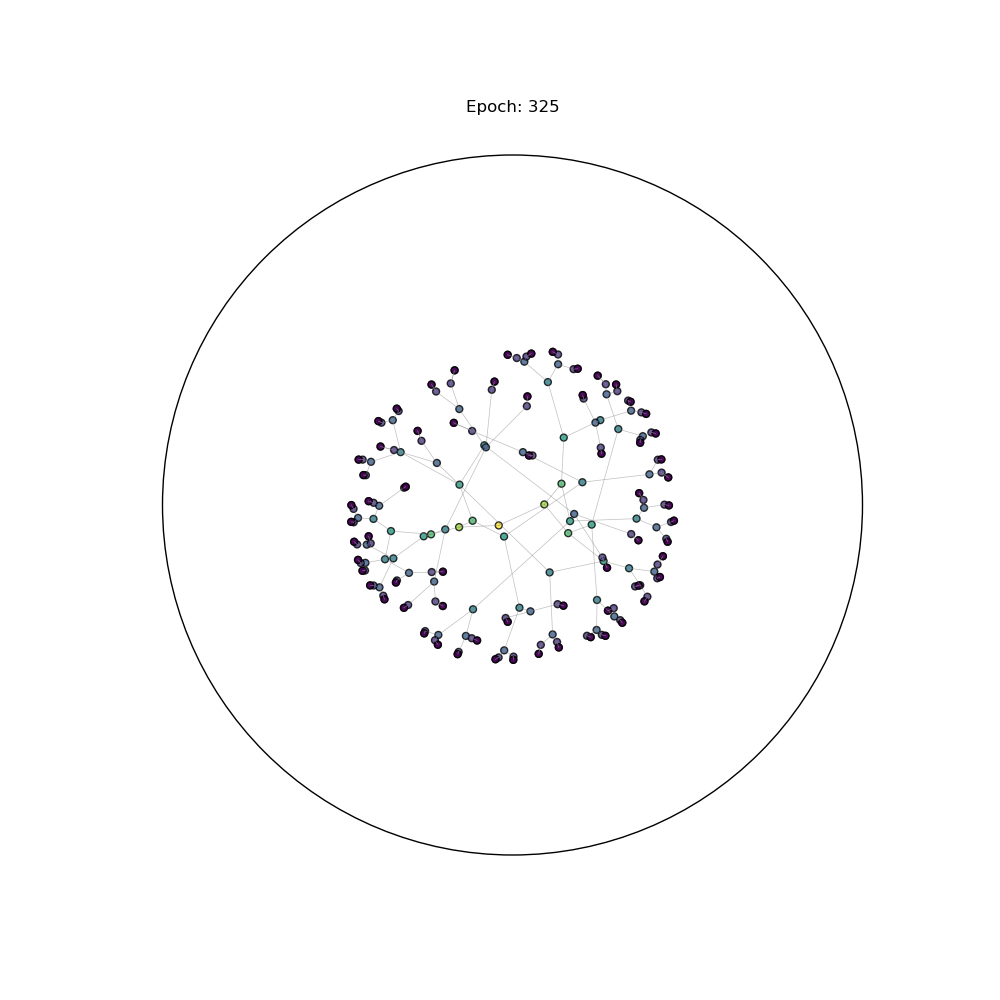
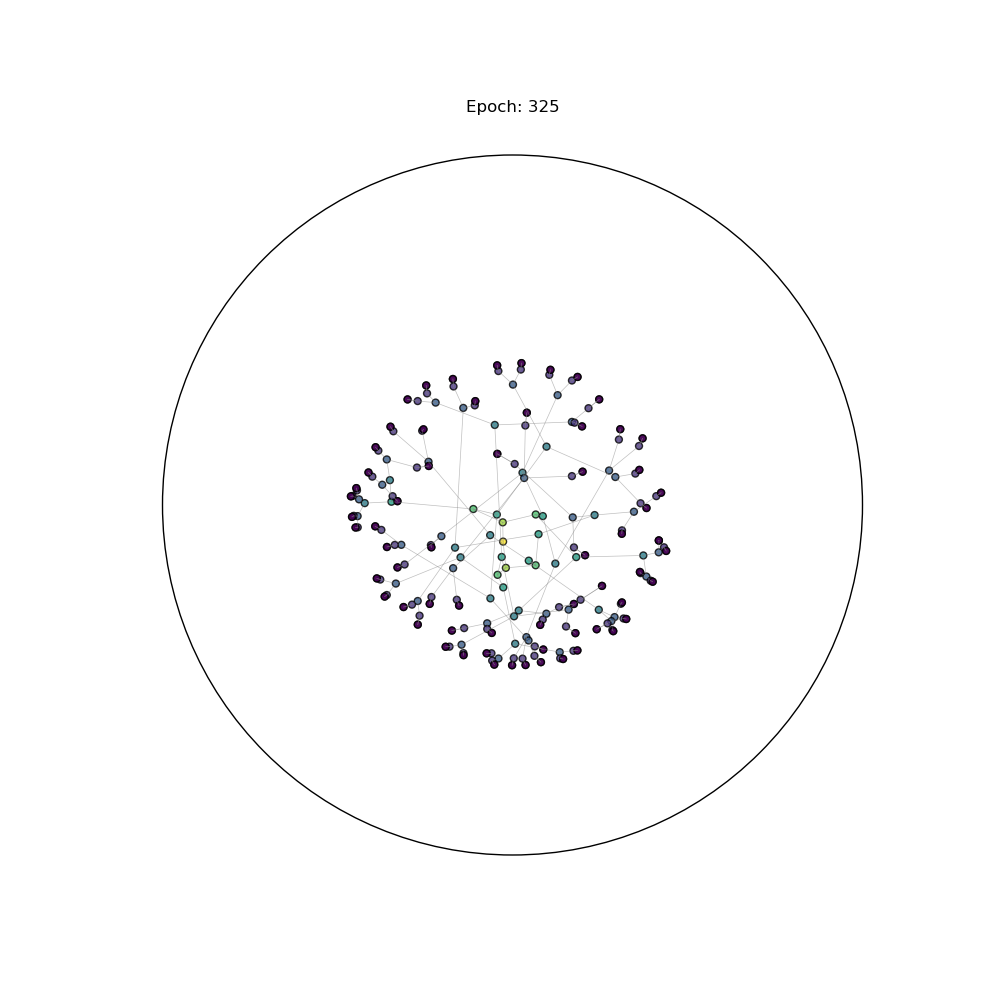
updated logic

Changed region(s): [[0.341, 0.341, 0.682, 0.682]]

diff --git a/minimal/train_hyper_synth.py b/minimal/train_hyper_synth.py
@@ -2,6 +2,8 @@ import time
 import numpy as np
 import os
 import torch
+from natsort import natsorted
+import imageio
 import torch.optim as optim
 import networkx as nx
 import torch.nn as nn
@@ -43,14 +45,14 @@ paths = nx.shortest_path_length(G,0)
 
 colors = [x[1] for x in paths.items()]
 
-init_c = nn.Parameter(torch.Tensor([1.0]), requires_grad=False)
+init_c = nn.Parameter(torch.Tensor([0.75]), requires_grad=False)
 hid_c = nn.Parameter(torch.Tensor([0.5]), requires_grad=False)
 out_c = nn.Parameter(torch.Tensor([0.25]), requires_grad=False)
 
 # Model and optimizer
 model = HGCN(nfeat=features.shape[1],
-            nhid=32,
-            nhid2=64,
+            nhid=8,
+            nhid2=32,
             nout=3,
             dropout=0.1,
             init_c=init_c,
@@ -79,14 +81,18 @@ ax = fig.add_subplot(111)
 
 epochs = 500
 
-optimizer = optim.Adam(model.parameters(), lr=5e-3, weight_decay=1e-5)
+optimizer = optim.Adam(model.parameters(), lr=1e-2, weight_decay=1e-5)
+
+gamma = 0.1**(1/epochs)
+
+scheduler = optim.lr_scheduler.ExponentialLR(optimizer, gamma=gamma)
 
 for epoch in range(epochs):
 
     t = time.time()
     model.train()
     optimizer.zero_grad()
-    output, k = model(features, adj) 
+    output = model(features, adj) 
 
     x_1 = output.repeat(output.size(0),1)
     x_2 = output.repeat_interleave(output.size(0),0)
@@ -101,10 +107,11 @@ for epoch in range(epochs):
 
     loss.backward()
     optimizer.step()
+    scheduler.step()
 
     if epoch%25 == 0 or epoch == epochs - 1:
       model.eval()
-      output, k = model(features, adj) 
+      output = model(features, adj) 
       plt.gca().add_patch(plt.Circle((0, 0), 1/model.out_c.item(), color='black', fill=False))
       plt.title("Epoch: " + str(epoch))
       
@@ -125,13 +132,23 @@ for epoch in range(epochs):
         continue
       print('Epoch: {:04d}'.format(epoch),
           'Loss_Avg: {:.5f}'.format(sum(loss_list[-25:]) / 25),
-          'Time: {:.4f}s'.format(time.time() - t),
+          'Time_Spot: {:.4f}s'.format(time.time() - t),
           'C1: {:.2f}'.format(model.init_c.item()),
           'C2: {:.2f}'.format(model.hid_c.item()),
           'C3: {:.2f}'.format(model.out_c.item()),
           'Grd: {:.2f}'.format(sum([param.grad.abs().sum() if param.grad is not None else 0 for _, param in model.named_parameters()])),
           )
 
+images = []
+for file_name in natsorted(os.listdir("img")):
+      file_path = os.path.join("img", file_name)
+      images.append(imageio.imread(file_path))
+
+for _ in range(10):
+    images.append(imageio.imread(file_path))
+
+imageio.mimsave('img/final.gif', images, duration=0.5)
+
 print("Optimization Finished!")
 print("Total time elapsed: {:.4f}s".format(time.time() - t_total))
-print((fermi_dirac - adj).abs().sum().item())
+# print((fermi_dirac - adj).abs().sum().item())

diff --git a/minimal/layers/layers.py b/minimal/layers/layers.py
@@ -79,28 +79,19 @@ class HypLinear(nn.Module):
 
     def reset_parameters(self):
         init.xavier_normal_(self.weight, gain=math.sqrt(2))
-        # init.normal_(self.bias, std=0.1)
         init.ones_(self.bias)
 
     def forward(self, x):
-        # print(x.max())
         drop_weight = F.dropout(self.weight, self.dropout, training=self.training)
         mv = self.manifold.mobius_matvec(drop_weight, x, self.c)
-        # print(drop_weight[:5])
-        # print(mv[:5])
-        # res = self.manifold.proj(mv, self.c)
         if self.use_bias:
             bias = self.manifold.proj_tan0(self.bias.view(1, -1), self.c)
             hyp_bias = self.manifold.expmap0(bias, self.c)
             hyp_bias = self.manifold.proj(hyp_bias, self.c)
             res = self.manifold.mobius_add(mv, hyp_bias, c=self.c)
-            # print(res[:5])
         else:
             res = mv
         res = self.manifold.proj(res, self.c)
-        # print(res[:5])
-        # res = torch.clamp(res, min=-1e7, max=1e7) # screams of torment
-        # print(res.max().item(), res.abs().sum().item(), "=====================")
         return res
 
     def extra_repr(self):

diff --git a/minimal/manifolds/hyperboloid.py b/minimal/manifolds/hyperboloid.py
@@ -36,8 +36,7 @@ class Hyperboloid(Manifold):
         theta = torch.clamp(-prod / K, min=1.0 + self.eps[x.dtype])
         sqdist = K * arcosh(theta) ** 2
         # clamp distance to avoid nans in Fermi-Dirac decoder
-        # return sqdist
-        return torch.clamp(sqdist, min=1e-15, max=50.0)
+        return torch.clamp(sqdist, max=50.0)
 
     def proj(self, x, c):
         K = 1. / c

diff --git a/minimal/models/hgcn.py b/minimal/models/hgcn.py
@@ -41,5 +41,4 @@ class HGCN(nn.Module):
         out = self.layers.forward(input)
         out = self.l1.forward(out[0])
         
-
-        return (out, adj)
+        return out
